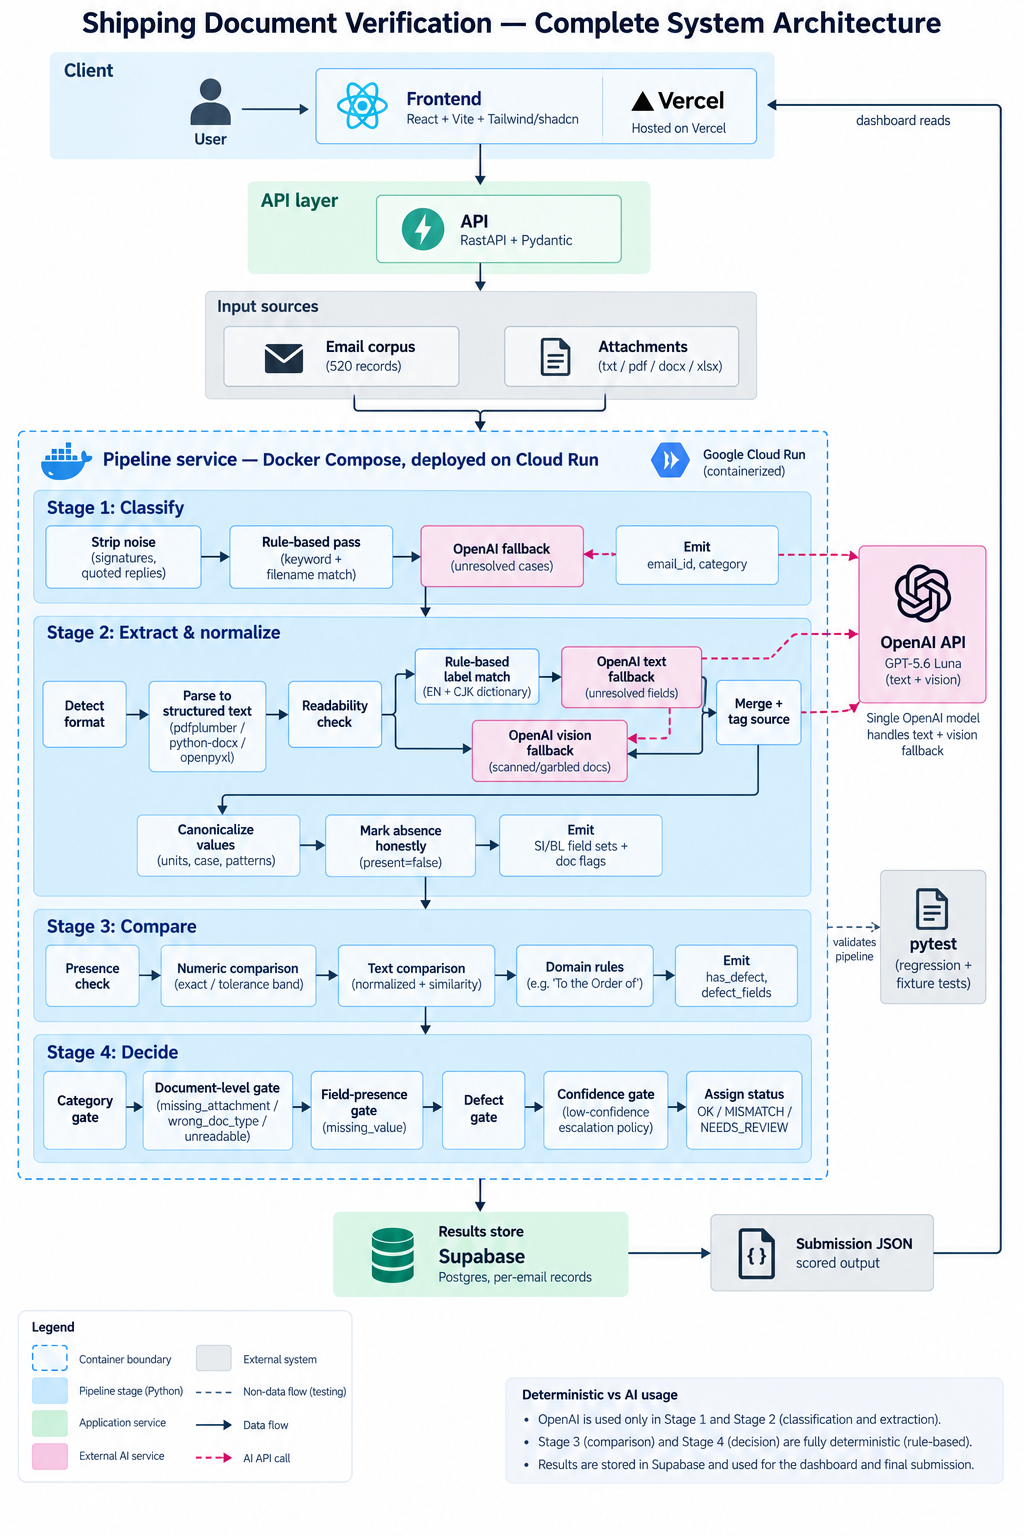
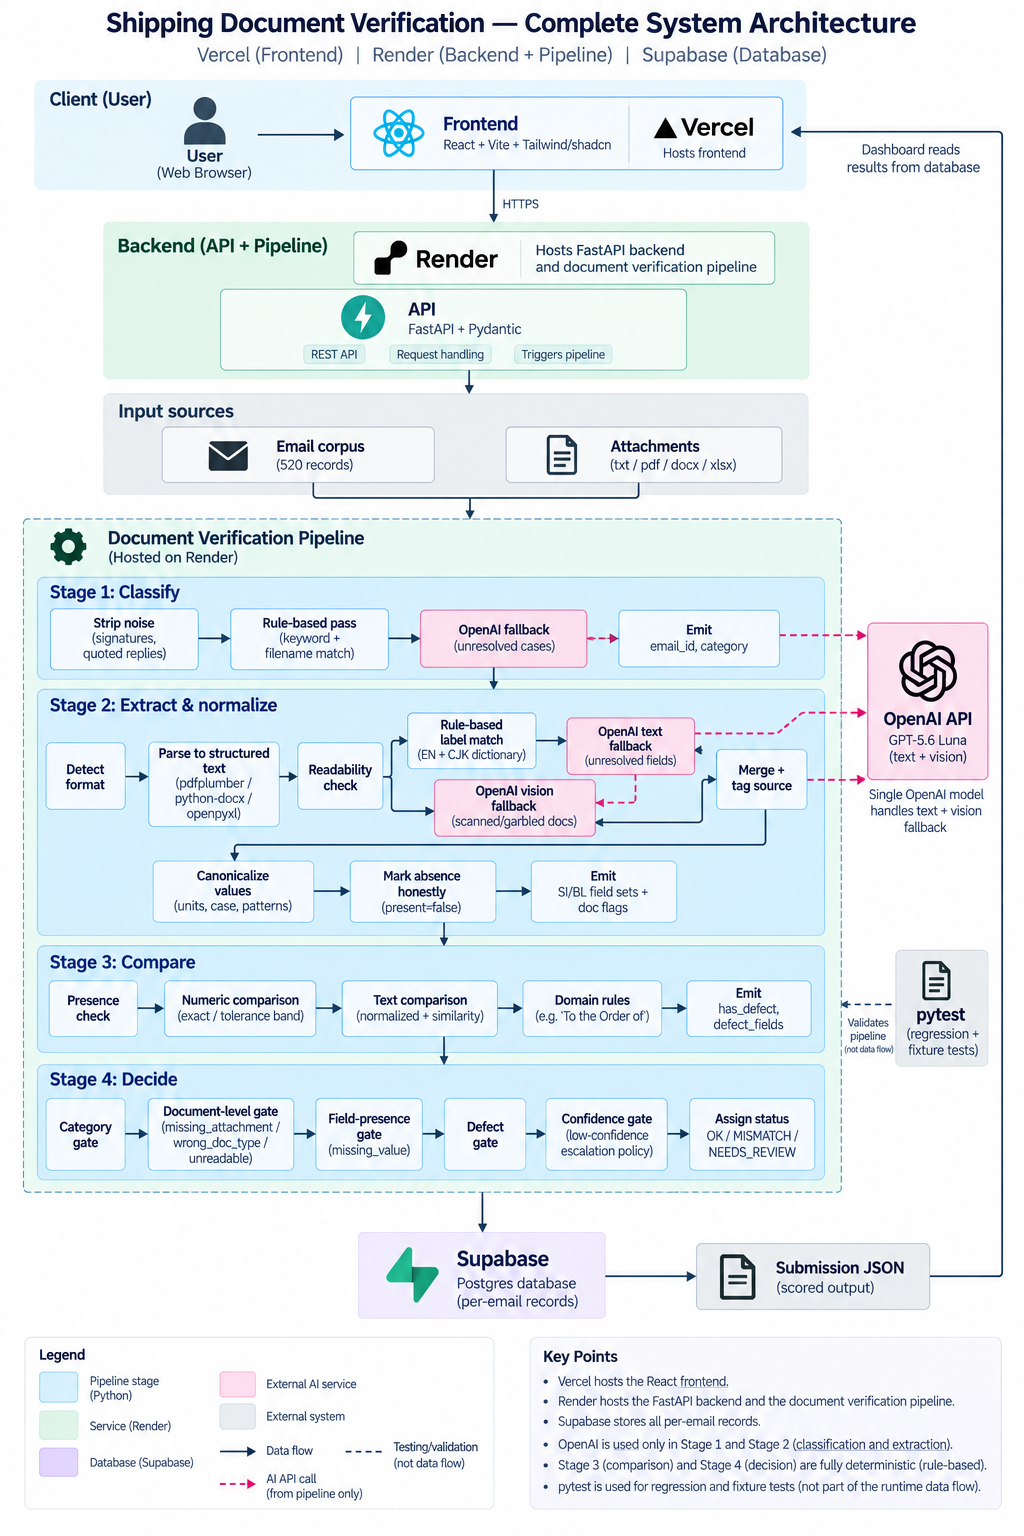
edited agents.md and architecture diagram

diff --git a/AGENTS.md b/AGENTS.md
@@ -14,6 +14,8 @@ Build the smallest coherent product that proves the hackathon idea: an inbox pip
 
 `docs/architecture.png` is the source of truth for the shape of the system. Keep code, docs, and this file aligned with it. If a change would depart from the diagram, say so and update the diagram and this file in the same change.
 
+**Deployment decision:** the diagram still labels the pipeline host as Google Cloud Run with Docker Compose. The team has decided to host the backend on Render instead. This file takes precedence on hosting until the diagram is updated. Do not add Docker or Cloud Run configuration.
+
 ### Data flow
 
 User -> Frontend -> API -> Input sources -> Pipeline (Stage 1 -> 2 -> 3 -> 4) -> Results store -> Submission JSON. The dashboard reads results back through the API.
@@ -23,7 +25,7 @@ User -> Frontend -> API -> Input sources -> Pipeline (Stage 1 -> 2 -> 3 -> 4) ->
 - **Client:** React + Vite + Tailwind/shadcn, hosted on Vercel. The browser talks only to the FastAPI API. It never holds a database service key or an OpenAI key.
 - **API layer:** FastAPI + Pydantic. It is the typed boundary between the UI and the pipeline.
 - **Input sources:** the email corpus (520 JSON records) and its attachments (txt, pdf, docx, xlsx), read from `data/` through `data/loader.py`.
-- **Pipeline service:** Python, four stages, containerized. Docker Compose for the reproducible local run, deployed on Google Cloud Run.
+- **Pipeline service:** Python, four stages, hosted as a Render web service using Render's native Python runtime. No Docker is required.
 - **External AI service:** OpenAI API, a single model (default GPT-5.6 Luna) that handles both text and vision fallbacks.
 - **Results store:** Supabase Postgres, per-email records. It is the system of record for results, field extractions, review decisions, and pipeline runs.
 - **Submission JSON:** scored output generated from the results store in the exact shape of `data/sample_submission.json`.
@@ -49,7 +51,7 @@ User -> Frontend -> API -> Input sources -> Pipeline (Stage 1 -> 2 -> 3 -> 4) ->
 - **Validation:** Pydantic for API, model output, and pipeline data.
 - **Tests:** `pytest`.
 - **Storage:** Supabase Postgres as the system of record. Local JSON files are acceptable for the first working slice and for offline development, but only behind the storage adapter, so switching to Supabase changes no pipeline code.
-- **Runtime:** Docker Compose locally, Cloud Run deployed. Vercel for the frontend.
+- **Runtime:** run the API locally with `uvicorn` and the frontend with `npm run dev`. Deployed: Render (API and pipeline), Vercel (frontend), Supabase (database).
 
 ## Repository layout
 
@@ -344,8 +346,10 @@ Run the pipeline against the supplied dataset, submit the evaluator output, insp
 
 ## Deployment and demo readiness
 
-- Frontend on Vercel. API and pipeline on Google Cloud Run from a backend `Dockerfile`. Results in Supabase.
-- Docker Compose provides the reproducible local run. Running the API and the frontend directly is fine during development.
+- Frontend on Vercel. API and pipeline on Render as a web service (native Python runtime; document the build and start commands in `README.md`, and listen on the port Render provides in `PORT`). Results in Supabase.
+- Render's free tier spins the service down when idle and loses local file changes, so keep all durable state (results, run status, review decisions) in Supabase, and keep `data/` inside the deployed code so it is available after a restart.
+- Do not add a Dockerfile, Docker Compose, or Cloud Run configuration.
+- The API must allow the Vercel frontend origin through CORS.
 - Keep setup instructions and required environment variables in `README.md`. Put secrets in a local `.env` and document only placeholder names in `.env.example`. Expected variables include `OPENAI_API_KEY`, `OPENAI_MODEL`, `SUPABASE_URL`, `SUPABASE_SERVICE_ROLE_KEY`, and `DATA_DIR`.
 - The primary demo flow must work from a fresh start without manual database editing or hidden setup steps.
 - Provide graceful degradation if a non-critical integration is unavailable.
